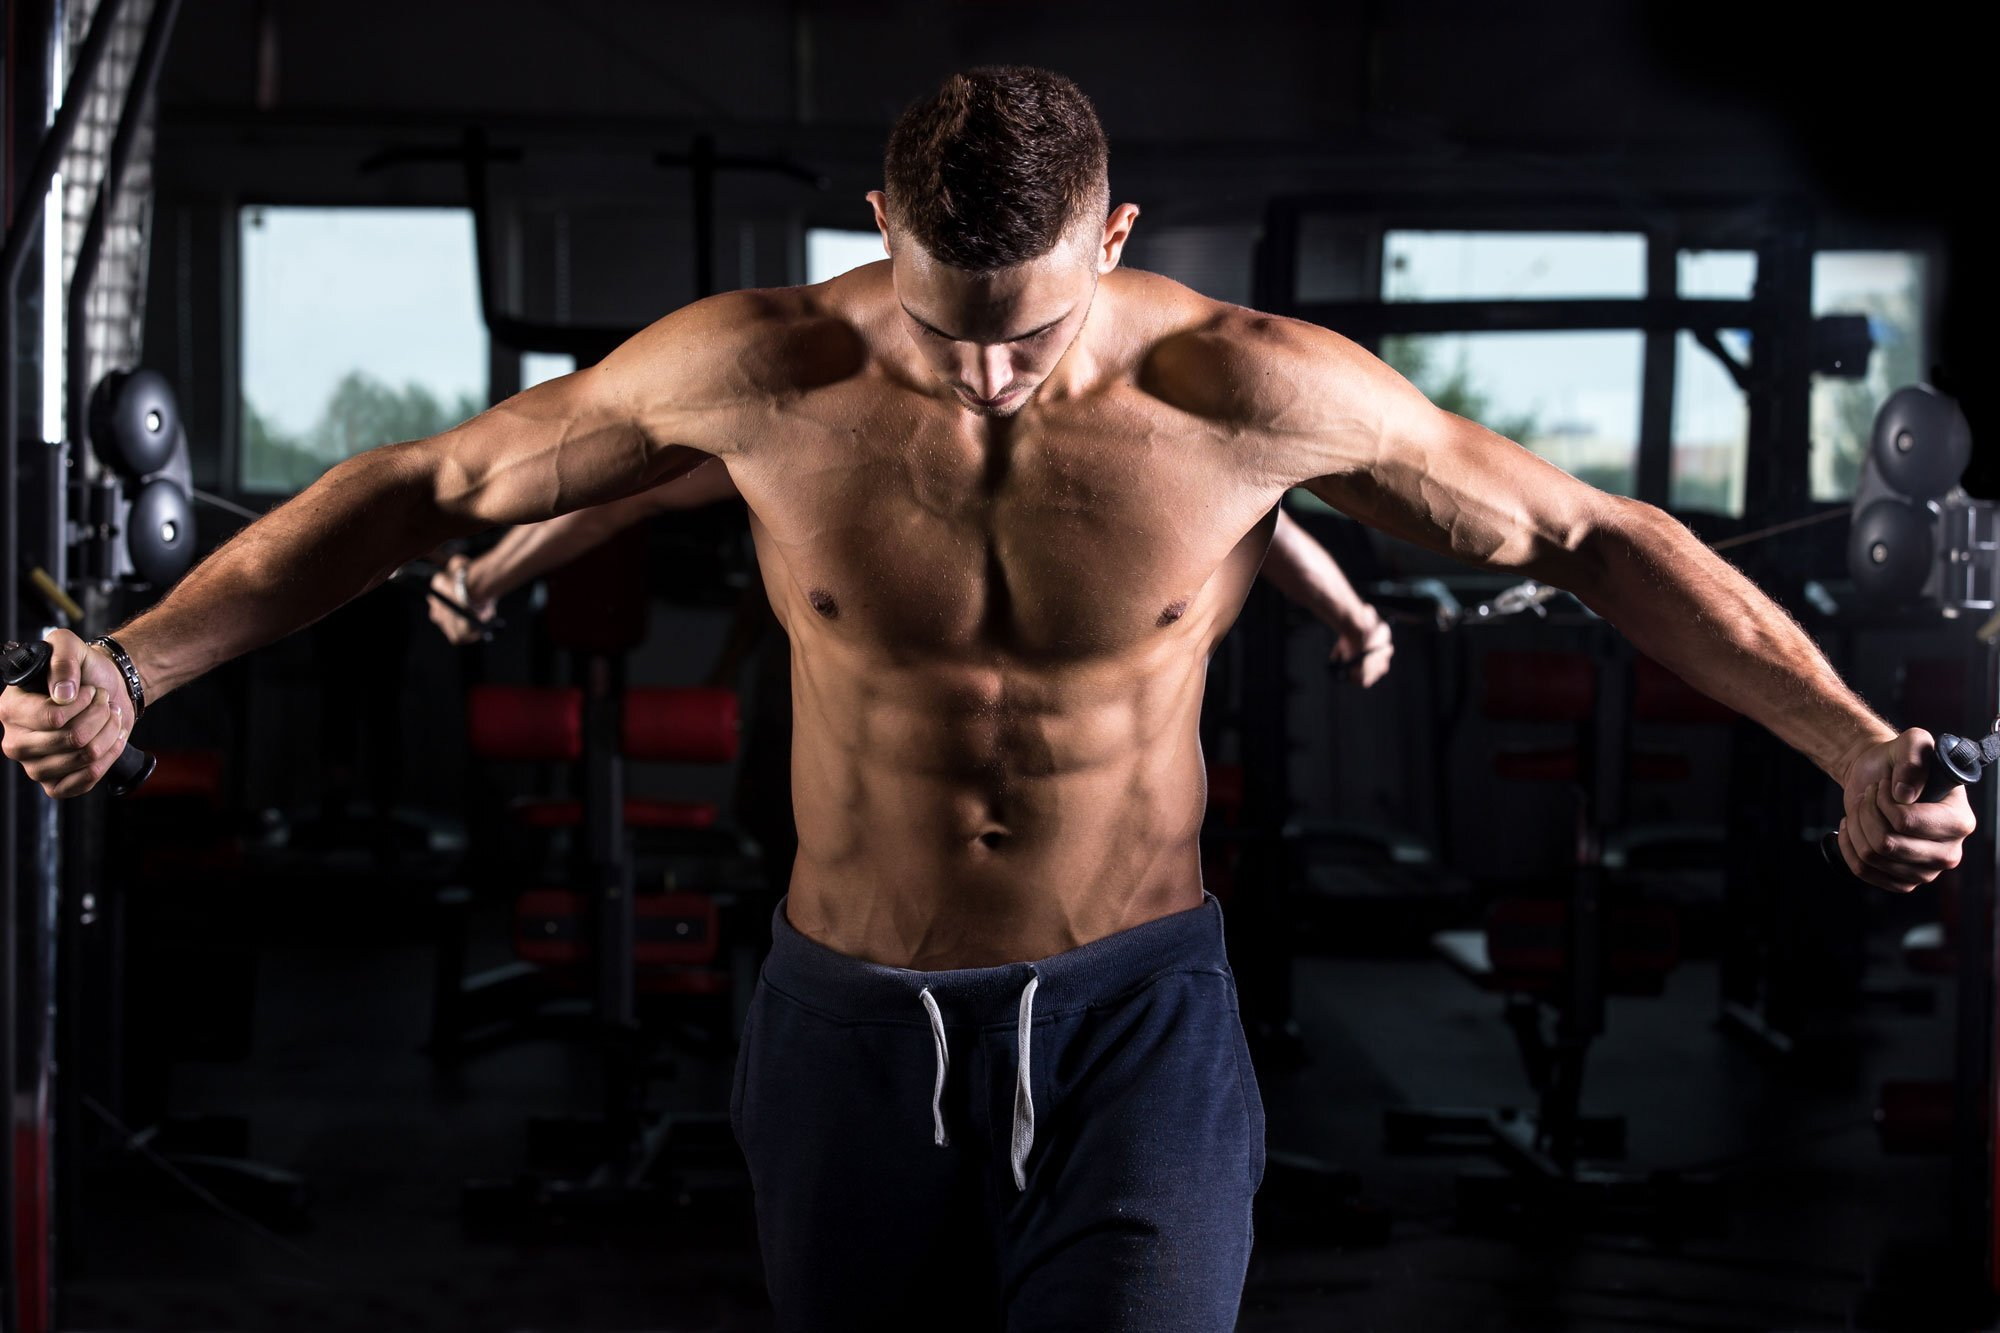
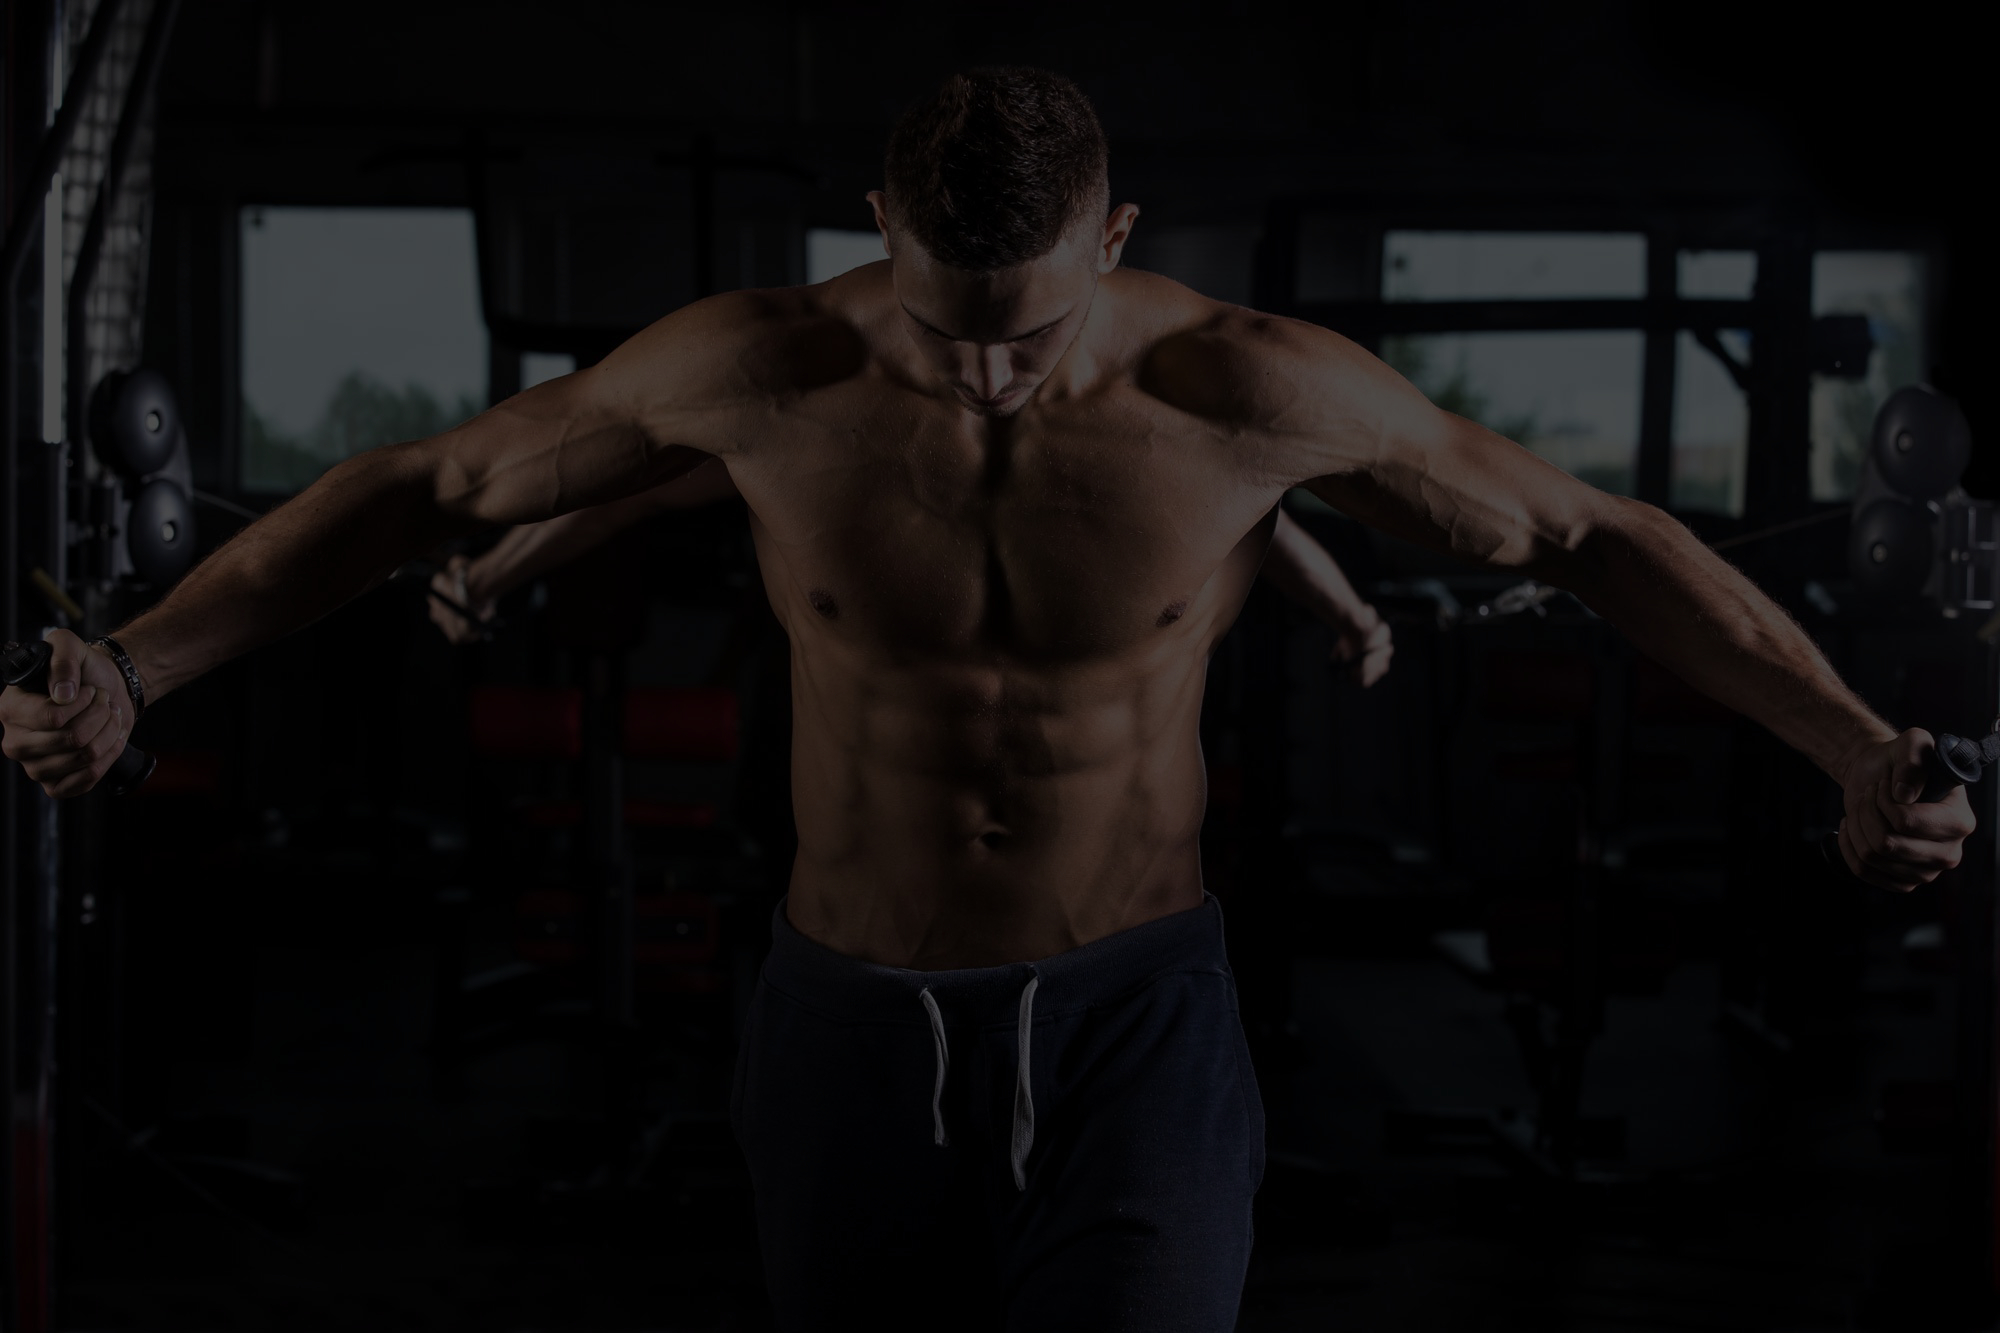
- Add new endpoints in server.js, - Create blog section in blog component with styles, - Edit images

diff --git a/src/app/components/blog/blog.component.scss b/src/app/components/blog/blog.component.scss
@@ -1,0 +1,121 @@
+@import '~src/styles/custom';
+@import '~src/styles/variables';
+@import '~src/styles/mixins';
+
+.blog {
+  margin-top: 56px;
+
+  &__hero-section {
+    height: 500px;
+    background: url('../../../assets/background_hero.jpg') no-repeat;
+    background-position: center;
+    background-size: cover;
+    background-attachment: fixed;
+    display: flex;
+    justify-content: center;
+    align-items: center;
+    padding: 0 16px;
+
+    @include media-desktop {
+      background-position: top;
+    }
+  }
+
+  &__hero-section-container {
+    max-width: 550px;
+  }
+
+  &__hero-section-title {
+    font-size: $font-title-mobile;
+    font-weight: bold;
+    text-align: left;
+    background: linear-gradient(40deg, $primary-color 0%, $secondary-color 100%);
+    background-clip: text;
+    -webkit-text-fill-color: transparent;
+
+    @include media-tablet {
+      font-size: $font-title-tablet;
+    }
+
+    @include media-desktop {
+      font-size: $font-title-desktop;
+      text-align: center;
+    }
+  }
+
+  &__hero-section-divider {}
+
+
+  &__content {
+    margin: 25px auto;
+    max-width: 1200px;
+
+    @include media-desktop {
+      display: grid;
+      grid-template-columns: auto 300px;
+      gap: 30px;
+    }
+  }
+
+  &__content-container {
+    padding: 0 16px;
+    text-align: center;
+    max-width: 600px;
+    margin: 0 auto;
+
+    @include media-desktop {
+      max-width: 1200px;
+    }
+  }
+
+  &__content-post {
+    margin: 0 0 50px;
+  }
+
+  &__content-post-image {
+    max-width: 100%;
+    height: auto;
+    box-shadow: 0 2px 5px 0 rgba(0, 0, 0, .16), 0 2px 10px 0 rgba(0, 0, 0, .12);
+  }
+
+  &__content-post-category {
+    margin: 5px;
+    color: $secondary-color;
+  }
+
+  &__content-post-date {
+    margin: 5px;
+    opacity: 0.5;
+  }
+
+  &__content-post-title {
+    margin: 20px 0;
+  }
+
+  &__content-post-text {
+    text-align: left;
+    font-size: 14px;
+  }
+
+  &__content-post-button {
+    border-radius: 20px;
+  }
+
+  &__content-aside {
+    text-align: center;
+    padding: 0 16px;
+    max-width: 600px;
+    margin: 0 auto;
+
+    @include media-desktop {
+      margin: 0;
+    }
+  }
+
+  &__content-aside-title {
+    font-size: 20px;
+    margin: 20px;
+
+  }
+
+}

diff --git a/src/app/components/blog/blog.component.html b/src/app/components/blog/blog.component.html
@@ -1,0 +1,30 @@
+<section class="blog">
+  <section class="blog__hero-section" uk-parallax="bgy: -100">
+    <div class="blog__hero-section-container">
+      <h2 class="blog__hero-section-title">Witaj na moim blogu</h2>
+      <hr class="blog__hero-section-divider">
+    </div>
+  </section>
+  <section class="blog__content">
+    <section class="blog__content-container">
+      <div *ngFor="let post of database" class="blog__content-post">
+        <img class="blog__content-post-image" src="../../../assets/background_hero.jpg" alt="">
+        <p class="blog__content-post-category">{{post.category}}</p>
+        <p class="blog__content-post-date">{{post.date}}</p>
+        <h2 class="blog__content-post-title">{{post.title}}</h2>
+        <p class="blog__content-post-text">{{post.subTitle}}</p>
+        <button class="blog__content-post-button" gradient="peach" rounded="true" mdbWavesEffect mdbBtn>Czytaj
+          więcej</button>
+        <hr class="blog__hero-section-divider">
+      </div>
+
+    </section>
+    <aside class="blog__content-aside">
+      <hr class="blog__hero-section-divider">
+      <h2 class="blog__content-aside-title">Kategorie</h2>
+      <hr class="blog__hero-section-divider">
+      <p *ngFor="let item of category" (click)="filterByCategory($event)">{{item.category}}</p>
+    </aside>
+  </section>
+
+</section>

diff --git a/src/app/services/connection.service.ts b/src/app/services/connection.service.ts
@@ -5,12 +5,25 @@ import { HttpClient, HttpHeaders } from '@angular/common/http';
   providedIn: 'root'
 })
 export class ConnectionService {
-  url: string = 'http://localhost:3000/addNewPost';
+  urlAddNewPost: string = 'http://localhost:3000/addNewPost';
+  urlGetPosts: string = 'http://localhost:3000/getPosts';
+  urlGetCategory: string = 'http://localhost:3000/getCategory';
+
   constructor(private http: HttpClient) { }
 
   addNewPost(messageContent: any) {
-    return this.http.post(this.url,
+    return this.http.post(this.urlAddNewPost,
       JSON.stringify(messageContent),
       { headers: new HttpHeaders({ 'Content-Type': 'application/json' }), responseType: 'text' });
+  }
+
+  getPosts() {
+    return this.http.get(this.urlGetPosts, { headers: new HttpHeaders({ 'Content-Type': 'application/json' }), responseType: 'json' });
+  }
+
+  getCategory(messageContent) {
+    return this.http.post(this.urlGetCategory,
+      JSON.stringify(messageContent),
+      { headers: new HttpHeaders({ 'Content-Type': 'application/json' }), responseType: 'json' });
   }
 }

diff --git a/src/app/components/blog/blog.component.ts b/src/app/components/blog/blog.component.ts
@@ -1,4 +1,5 @@
 import { Component, OnInit } from '@angular/core';
+import { ConnectionService } from '../../services/connection.service';
 
 @Component({
   selector: 'app-blog',
@@ -7,9 +8,28 @@ import { Component, OnInit } from '@angular/core';
 })
 export class BlogComponent implements OnInit {
 
-  constructor() { }
+  constructor(private connectionService: ConnectionService) { }
+
+  database;
+  category;
+  unique;
 
   ngOnInit() {
+    this.connectionService.getPosts().subscribe((date) => {
+      this.database = date
+      this.category = date
+    })
+
   }
 
+
+  filterByCategory(event) {
+    let category = { category: event.target.textContent }
+    this.connectionService.getCategory(category).subscribe((date) => {
+      this.database = date
+    })
+    var unique = this.category.filter(function (elem, index, self) {
+      return index === self.indexOf(elem);
+    })
+  }
 }

diff --git a/server.js b/server.js
@@ -24,6 +24,22 @@ app.use(function (req, res, next) {
   next();
 });
 
+let database = [];
+
+function actualDatabase() {
+  cloudFirestore.collection('blog').get()
+    .then((snapshot) => {
+      snapshot.forEach((doc) => {
+        database.push(doc.data())
+      });
+    })
+    .catch((err) => {
+      console.log('Error getting documents', err);
+    });
+}
+
+actualDatabase()
+
 
 app.post('/addNewPost', function (req, res) {
   let id = req.body.id;
@@ -33,15 +49,21 @@ app.post('/addNewPost', function (req, res) {
     .catch((error) => {
       res.send("Error")
     })
+  actualDatabase()
 });
 
 
+app.get('/getPosts', function (req, res) {
+  res.send(database)
+})
 
-
-
-
-
-
+app.post('/getCategory', function (req, res) {
+  const category = req.body.category;
+  const result = database.filter(obj => {
+    return obj.category === category
+  })
+  res.send(result)
+})
 
 
 

diff --git a/src/app/components/home-page/home-page.component.scss b/src/app/components/home-page/home-page.component.scss
@@ -11,11 +11,10 @@
 
   &__title {
     font-size: $font-title-mobile;
-    color: $primary-color;
     font-weight: bold;
     text-align: left;
-    background: linear-gradient(to right, $primary-color 0%, $secondary-color 100%);
-    -webkit-background-clip: text;
+    background: linear-gradient(40deg, $primary-color 0%, $secondary-color 100%);
+    background-clip: text;
     -webkit-text-fill-color: transparent;
 
     @include media-tablet {

diff --git a/src/styles/_variables.scss b/src/styles/_variables.scss
@@ -16,9 +16,8 @@ $roboto: 'Roboto',
 sans-serif;
 
 
-$primary-color: #FCD307;
-$secondary-color: #FC6B29;
-
+$primary-color: #FFD86F;
+$secondary-color: #FC6262;
 
 $tabletBreakpoint: 600px;
 $desktopBreakpoint: 992px;
